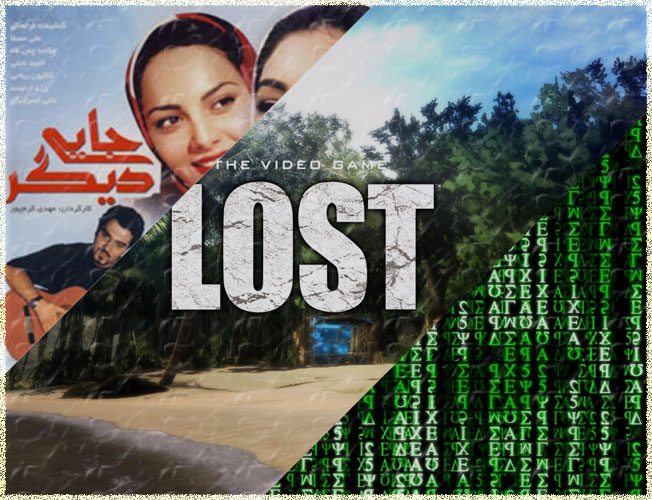
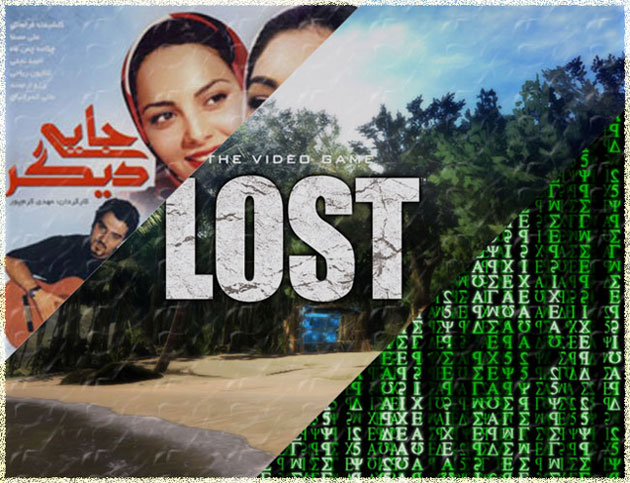
+header eslahat... css & html

diff --git a/GP.css b/GP.css
@@ -14,7 +14,7 @@ div {
 div.container {
 	background-image: url();
 	width: 980px;
-	height: 1097px;
+	height: auto;
 	background-position: top center;
 	background-repeat: no-repeat;
 	margin: 0 auto;
@@ -23,6 +23,10 @@ div.clear {
 	width: 0;
 	height: 0;
 	clear: both;
+}
+div.up-header {
+	width: 980px;
+	height: 133px;
 }
 /*---------------- Header ---------------*/
 div.header {
@@ -122,7 +126,7 @@ div.menu li li a {
 }
 /*---------------- Sub-Menu ---------------*/
 /*---------------- Menu ---------------*/
-/*---------------- Main ---------------MAMir------------*/
+/*---------------- Main MAMir---------------------------*/
 div.main {
 	width: auto;
 	height: 756px;
@@ -134,37 +138,25 @@ div.up-main {
 }
 div.content-left-up-main {
 	width: 652px;
-	height: inherit;
+	height: 500px;
 	float: left;
 }
 div.content-right-up-main {
 	width: 328px;
-	height: inherit;
+	height: 500px;
 	float: right;
 	background-image: url(Images/back-2.jpg);
 	background-repeat: no-repeat;
 	background-position: left;
 }
-.matrix--2 {
-	display: none;
-}
-.jayi-digar {
-	display: none;
-}
-.lost--2 {
-	display: none;
-}
 .lost, .matrix, .jaee-digar {
 	width: 328px;
 	height: 166.66px;
-}
-.matrix, .lost, .jaee-digar {
-	border: dotted 5px gray;
+	border: dotted 3px gray;
 	-moz-border-image: url(Images/border.jpg) 5 1 5 5 stretch stretch;
 	-o-border-image: url(Images/border.jpg) 5 1 5 5 stretch stretch;
-	-webkit-border-image: url(Images/border.jpg) 5 1 5 5 stretch stretch;
-	border-image: url(Images/border.jpg) 5 1 5 5 stretch stretch;
-	height: 155px;
+	-webkit-border-image: url(Images/border.jpg) 5 1 5 10 stretch stretch;
+	border-image: url(Images/border.jpg) 5 1 5 10 stretch stretch;
 	margin-bottom: 5px;
 }
 .lost p, .matrix p, .jaee-digar p {
@@ -172,7 +164,7 @@ div.content-right-up-main {
 	text-align: right;
 	line-height: 25px;
 	font-family: Tahoma, Geneva, sans-serif;
-	margin-right: 2px;
+	margin-right: 5px;
 }
 .lost-a, .matrix-a, .jaee-digar-a {
 	text-decoration: none;
@@ -206,7 +198,7 @@ div.content-right-up-main {
 div.down-main {
 	height: 255px;
 	width: 980px;
-	background-image: url(Images/background-down-main.jpg);
+	background-image: url();
 	background-repeat: repeat-x;
 	padding: 1px 0px 0px 0px;
 	margin-top: 10px;
@@ -280,7 +272,7 @@ div.child0-down-main img:hover {
 	margin: 0px 275px;
 	margin-top: 9.0px;
 }
-/*---------------- End Main----------------------MAMir--------- */
+/*---------------- End Main MAMir------------------------------- */
 /*---------------- Footer --------------- */
 div.footer {
 	width: auto;

diff --git a/GP.html b/GP.html
@@ -10,6 +10,7 @@
 
 <body>
 <div class="container">
+<div class="up-header"><img src="Images/header.jpg" width="980" height="133" /> </div>
 <div class="header">
   <div class="header-left">
     <form>
@@ -34,10 +35,10 @@
     </div>
   </div>
 </div>
-<!--start main------------------------------MAMir-------------------------------------------------------->
+<!--start main MAMir-------------------------------------------------------------------------------------->
 <div class="main">
   <div class="up-main">
-    <div class="content-left-up-main"> <img class="one-image" src="Images/one-image-of-content.jpg" width="652" height="500" /> <img class="lost--2" src="Images/lost--2.jpg" width="652" height="500" /> <img class="matrix--2" src="Images/matrix--2.jpg" width="652" height="500" /> <img class="jayi-digar" src="Images/jayi-digar.jpg" width="652" height="500" /> </div>
+    <div class="content-left-up-main"> <img class="one-image" src="Images/one-image-of-content.jpg" width="630" height="483" /></div>
     <div class="content-right-up-main">
       <div class="lost">
         <p><a class="lost-a" href="#" >Lost</a><br/>
@@ -80,7 +81,7 @@
     </div>
   </div>
 </div>
-<!--End main-------------------------------------MAMir------------------------------------------------->
+<!--End main MAMir-------------------------------------------------------------------------------------->
 <div class="footer">
 <div class="mum-footer">
 <div class="child1-footer" style="font-size:14px">
@@ -114,7 +115,7 @@
 </ul>
 </div>
 </div>
-<!--  be farmane modir hazf gardid  ---   <div class="amin"> </div><--->
+<!--  be farmane modir hazf gardid --->
 <div class="copy">
   <p style="color:#888">Copyright &copy; 2012 AMIN Corporation. All right reserved. <a href="#" style=" text-decoration:none; border-bottom:1px solid #888; font-weight:normal; color:#888; ">&nbsp;&nbsp;Terms of use</a></p>
 </div>
